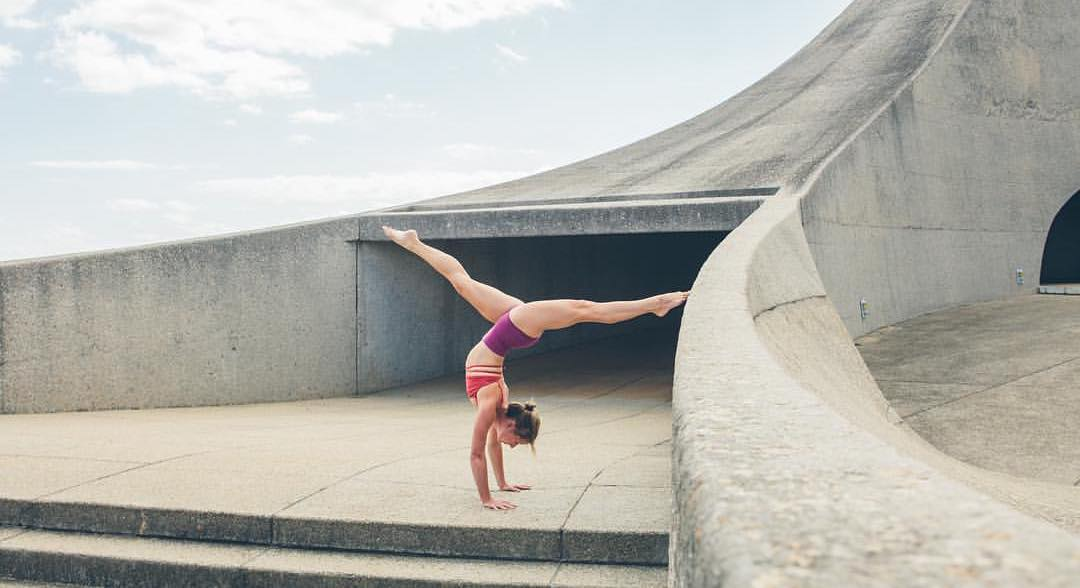
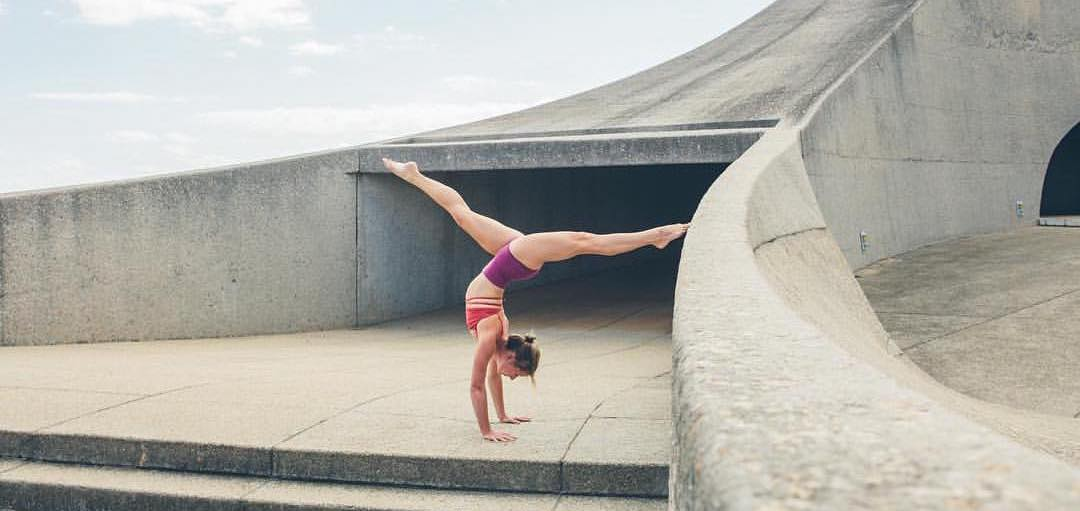
update home image

diff --git a/app/assets/stylesheets/application.css b/app/assets/stylesheets/application.css
@@ -45,7 +45,7 @@ body {
 
 .jumbotron {
 background-size: cover;
-height: 100vh;
+height: 80vh;
 }
 
 .btn-default {
